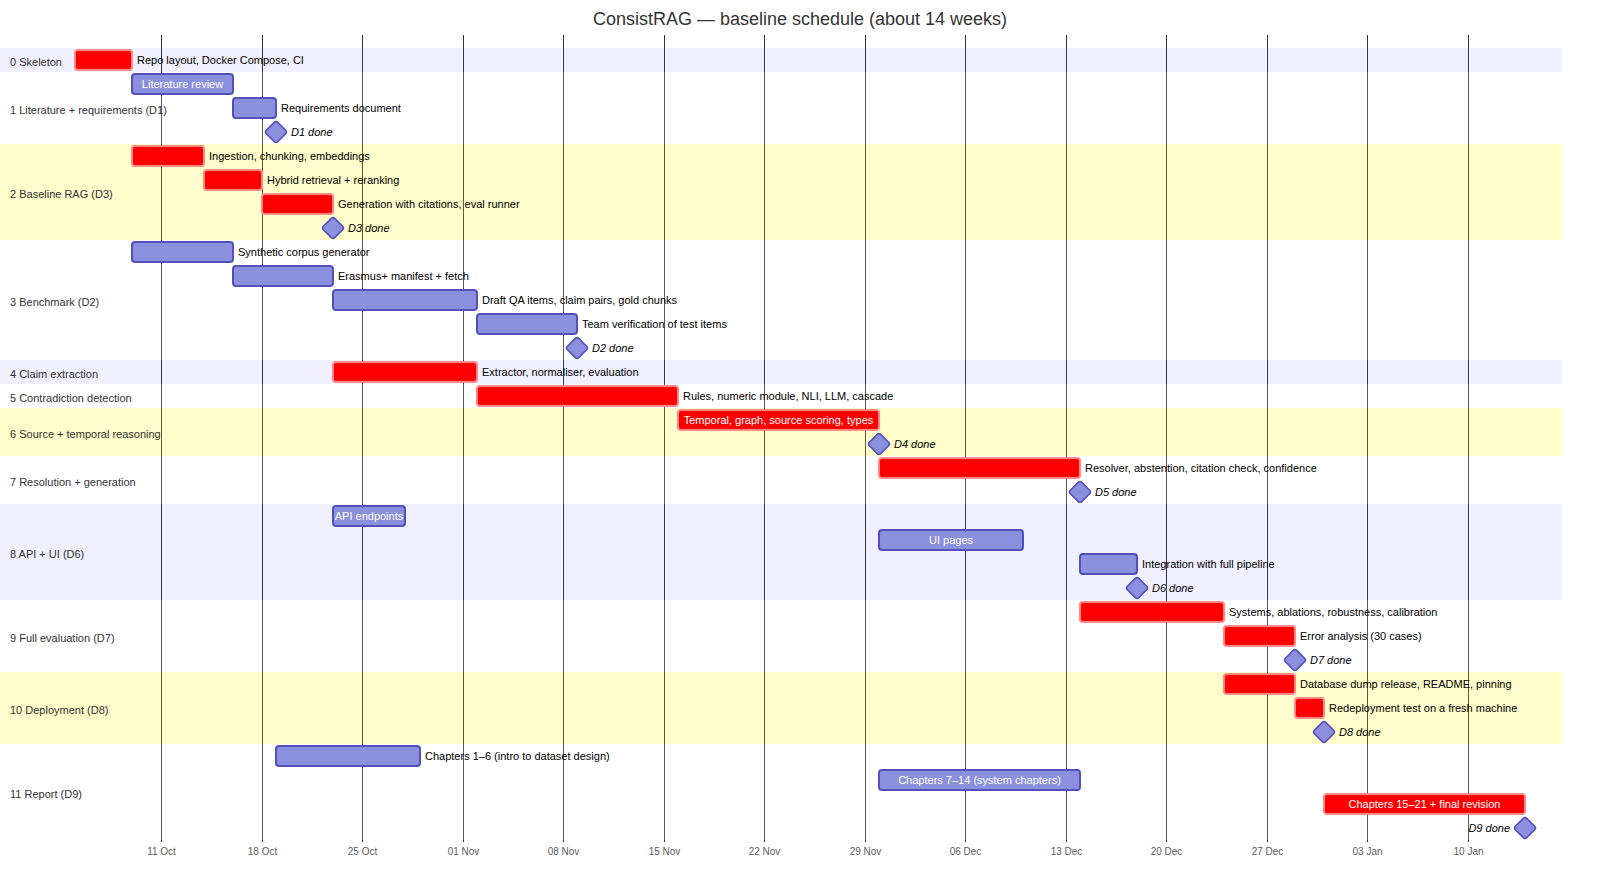
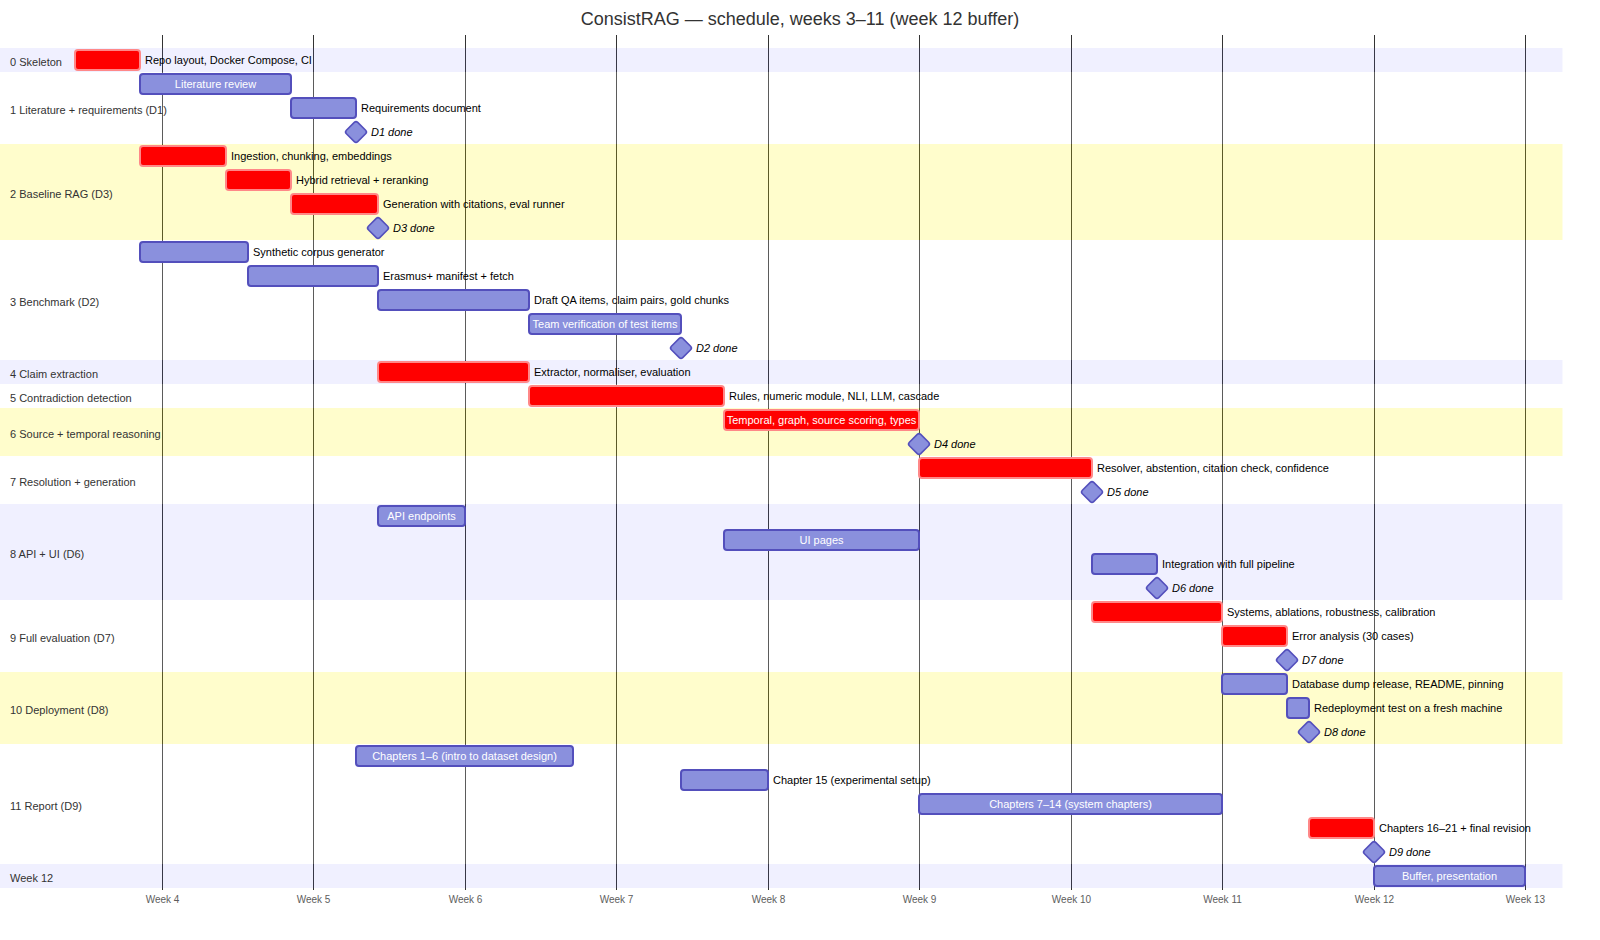
Reschedule Gantt chart to semester weeks 3-11
Fit the plan into weeks 3-11 with week 12 as buffer: shorter phases,
more parallel work, axis in semester weeks, real dates in the table,
and a scope-cut order if a phase slips.

Claude-Session: https://claude.ai/code/session_01FHxSgmcjkLqEFFrcDcbkh9

diff --git a/docs/gantt.md b/docs/gantt.md
@@ -1,97 +1,113 @@
 # ConsistRAG — Schedule
 
-Baseline plan for the phases in `design.md` §9. There are no fixed deadlines, so dates are estimates from a start on
-**Monday 5 October 2026**. Every task is chained to the tasks it depends on: to shift the whole plan, change only the
-start date of `p0` below. Red bars are the critical path; a delay there delays the end date. A rendered copy is in `img/gantt.png`.
+The semester has 12 weeks. Work starts in **week 3** (Thursday 1 October 2026) and the project must be complete by
+the **end of week 11** (Sunday 29 November 2026). Week 12 is kept free as buffer and for the presentation. Every task
+is chained to the tasks it depends on. Red bars are the critical path; a delay there delays the end date. A rendered copy
+is in `img/gantt.png`.
+
+The chart axis shows semester weeks. Mermaid only understands calendar dates, so the chart uses a stand-in calendar
+where week 1 starts on 1 January 2024; the table below gives the real dates. To shift the plan, change only the start
+date of `p0`.
 
 ```mermaid
 gantt
-    title ConsistRAG — baseline schedule (about 14 weeks)
+    title ConsistRAG — schedule, weeks 3–11 (week 12 buffer)
     dateFormat YYYY-MM-DD
-    axisFormat %d %b
+    axisFormat Week %-W
     tickInterval 1week
+    weekday monday
     todayMarker off
 
     section 0 Skeleton
-    Repo layout, Docker Compose, CI               :crit, p0, 2026-10-05, 4d
+    Repo layout, Docker Compose, CI                  :crit, p0, 2024-01-18, 3d
 
     section 1 Literature + requirements (D1)
-    Literature review                             :p1a, after p0, 7d
-    Requirements document                         :p1b, after p1a, 3d
-    D1 done                                       :milestone, m1, after p1b, 0d
+    Literature review                                :p1a, after p0, 7d
+    Requirements document                            :p1b, after p1a, 3d
+    D1 done                                          :milestone, m1, after p1b, 0d
 
     section 2 Baseline RAG (D3)
-    Ingestion, chunking, embeddings               :crit, p2a, after p0, 5d
-    Hybrid retrieval + reranking                  :crit, p2b, after p2a, 4d
-    Generation with citations, eval runner        :crit, p2c, after p2b, 5d
-    D3 done                                       :milestone, m3, after p2c, 0d
+    Ingestion, chunking, embeddings                  :crit, p2a, after p0, 4d
+    Hybrid retrieval + reranking                     :crit, p2b, after p2a, 3d
+    Generation with citations, eval runner           :crit, p2c, after p2b, 4d
+    D3 done                                          :milestone, m3, after p2c, 0d
 
     section 3 Benchmark (D2)
-    Synthetic corpus generator                    :p3a, after p0, 7d
-    Erasmus+ manifest + fetch                     :p3b, after p3a, 7d
-    Draft QA items, claim pairs, gold chunks      :p3c, after p3b, 10d
-    Team verification of test items               :p3d, after p3c, 7d
-    D2 done                                       :milestone, m2, after p3d, 0d
+    Synthetic corpus generator                       :p3a, after p0, 5d
+    Erasmus+ manifest + fetch                        :p3b, after p3a, 6d
+    Draft QA items, claim pairs, gold chunks         :p3c, after p3b, 7d
+    Team verification of test items                  :p3d, after p3c, 7d
+    D2 done                                          :milestone, m2, after p3d, 0d
 
     section 4 Claim extraction
-    Extractor, normaliser, evaluation             :crit, p4, after p2c, 10d
+    Extractor, normaliser, evaluation                :crit, p4, after p2c, 7d
 
     section 5 Contradiction detection
-    Rules, numeric module, NLI, LLM, cascade      :crit, p5, after p4, 14d
+    Rules, numeric module, NLI, LLM, cascade         :crit, p5, after p4, 9d
 
     section 6 Source + temporal reasoning
-    Temporal, graph, source scoring, types        :crit, p6, after p5, 14d
-    D4 done                                       :milestone, m4, after p6, 0d
+    Temporal, graph, source scoring, types           :crit, p6, after p5, 9d
+    D4 done                                          :milestone, m4, after p6, 0d
 
     section 7 Resolution + generation
-    Resolver, abstention, citation check, confidence :crit, p7, after p6, 14d
-    D5 done                                       :milestone, m5, after p7, 0d
+    Resolver, abstention, citation check, confidence :crit, p7, after p6, 8d
+    D5 done                                          :milestone, m5, after p7, 0d
 
     section 8 API + UI (D6)
-    API endpoints                                 :p8a, after p2c, 5d
-    UI pages                                      :p8b, after p6, 10d
-    Integration with full pipeline                :p8c, after p7, 4d
-    D6 done                                       :milestone, m6, after p8c, 0d
+    API endpoints                                    :p8a, after p2c, 4d
+    UI pages                                         :p8b, after p5, 9d
+    Integration with full pipeline                   :p8c, after p7, 3d
+    D6 done                                          :milestone, m6, after p8c, 0d
 
     section 9 Full evaluation (D7)
-    Systems, ablations, robustness, calibration   :crit, p9a, after p7 p3d, 10d
-    Error analysis (30 cases)                     :crit, p9b, after p9a, 5d
-    D7 done                                       :milestone, m7, after p9b, 0d
+    Systems, ablations, robustness, calibration      :crit, p9a, after p7 p3d, 6d
+    Error analysis (30 cases)                        :crit, p9b, after p9a, 3d
+    D7 done                                          :milestone, m7, after p9b, 0d
 
     section 10 Deployment (D8)
-    Database dump release, README, pinning        :crit, p10a, after p9a p8c, 5d
-    Redeployment test on a fresh machine          :crit, p10b, after p10a, 2d
-    D8 done                                       :milestone, m8, after p10b, 0d
+    Database dump release, README, pinning           :p10a, after p9a p8c, 3d
+    Redeployment test on a fresh machine             :p10b, after p10a, 1d
+    D8 done                                          :milestone, m8, after p10b, 0d
 
     section 11 Report (D9)
-    Chapters 1–6 (intro to dataset design)        :p11a, after p1b, 10d
-    Chapters 7–14 (system chapters)               :p11b, after p6, 14d
-    Chapters 15–21 + final revision               :crit, p11c, after p9b p10b, 14d
-    D9 done                                       :milestone, m9, after p11c, 0d
+    Chapters 1–6 (intro to dataset design)           :p11a, after p1b, 10d
+    Chapter 15 (experimental setup)                  :p11c, after p3d, 4d
+    Chapters 7–14 (system chapters)                  :p11b, after p6, 14d
+    Chapters 16–21 + final revision                  :crit, p11d, after p9b p10b, 3d
+    D9 done                                          :milestone, m9, after p11d, 0d
+
+    section Week 12
+    Buffer, presentation                             :buf, after p11d, 7d
 ```
 
-## Same plan as a table
+## Same plan with real dates
 
-| Phase | Start | End | Depends on |
-|---|---|---|---|
-| 0 Skeleton | 5 Oct | 8 Oct | — |
-| 1 Literature + requirements (D1) | 9 Oct | 18 Oct | 0 |
-| 2 Baseline RAG + eval runner (D3) | 9 Oct | 22 Oct | 0 |
-| 3 Benchmark (D2) | 9 Oct | 8 Nov | 0 (team verification is the last week) |
-| 4 Claim extraction | 23 Oct | 1 Nov | 2 |
-| 5 Contradiction detection | 2 Nov | 15 Nov | 4 |
-| 6 Source + temporal reasoning (D4) | 16 Nov | 29 Nov | 5 |
-| 7 Resolution + generation (D5) | 30 Nov | 13 Dec | 6 |
-| 8 API + UI (D6) | 23 Oct | 17 Dec | API after 2; UI after 6; integration after 7 |
-| 9 Full evaluation (D7) | 14 Dec | 28 Dec | 7, team verification |
-| 10 Deployment (D8) | 24 Dec | 30 Dec | 8, 9 |
-| 11 Report (D9) | 19 Oct | 13 Jan | chapters written after the phases they describe |
+| Phase | Weeks | Start | End | Depends on |
+|---|---|---|---|---|
+| 0 Skeleton | 3 | Thu 1 Oct | Sat 3 Oct | — |
+| 1 Literature + requirements (D1) | 3–5 | Sun 4 Oct | Tue 13 Oct | 0 |
+| 2 Baseline RAG + eval runner (D3) | 3–5 | Sun 4 Oct | Wed 14 Oct | 0 |
+| 3 Benchmark (D2) | 3–7 | Sun 4 Oct | Wed 28 Oct | 0 (team verification 22–28 Oct) |
+| 4 Claim extraction | 5–6 | Thu 15 Oct | Wed 21 Oct | 2 |
+| 5 Contradiction detection | 6–7 | Thu 22 Oct | Fri 30 Oct | 4 |
+| 6 Source + temporal reasoning (D4) | 7–8 | Sat 31 Oct | Sun 8 Nov | 5 |
+| 7 Resolution + generation (D5) | 9–10 | Mon 9 Nov | Mon 16 Nov | 6 |
+| 8 API + UI (D6) | 5–10 | Thu 15 Oct | Thu 19 Nov | API after 2; UI after 5; integration after 7 |
+| 9 Full evaluation (D7) | 10–11 | Tue 17 Nov | Wed 25 Nov | 7, team verification |
+| 10 Deployment (D8) | 11 | Mon 23 Nov | Thu 26 Nov | 8, evaluation runs |
+| 11 Report (D9) | 5–11 | Wed 14 Oct | Sun 29 Nov | chapters written after the phases they describe |
+| Buffer, presentation | 12 | Mon 30 Nov | Sun 6 Dec | — |
 
 ## Notes
 
-- **Your tasks:** the team verification week (phase 3), running GPU experiments on the RTX 4060 (phases 4–9), and the
-  redeployment test (phase 10). Everything else Claude can draft or build, with your review.
-- **Buffer:** the plan has no slack built in. The end-of-year holidays fall in phases 9–10; if the semester ends later,
-  move them out rather than compressing the evaluation.
-- **Riskiest estimate:** claim extraction (phase 4). If a 7B model extracts claims poorly, the fallback in `design.md`
-  §4.1 is used and phase 5 starts on time.
+- **Compression:** the earlier plan needed about 14 weeks; this one fits in 8.5. More work runs in parallel (UI alongside
+  source reasoning, report chapters alongside the system phases), and each phase is shorter. There is no slack before
+  week 12.
+- **Your tasks:** team verification (22–28 Oct), GPU runs on the RTX 4060 during phases 4–9 (claim extraction for the
+  corpus, all evaluation runs 17–22 Nov), and the redeployment test (26 Nov).
+- **Riskiest points:** claim extraction (one week) and the evaluation week, which can only start once phase 7 is done.
+- **If a phase slips by more than two days,** cut scope in this order rather than moving the end date:
+  1. benchmark 300 → 200 items and the pair set 600 → 400;
+  2. robustness sets reduced to passage-order permutation only;
+  3. Platt scaling instead of isotonic calibration;
+  4. UI evaluation dashboard reduced to static result tables.
